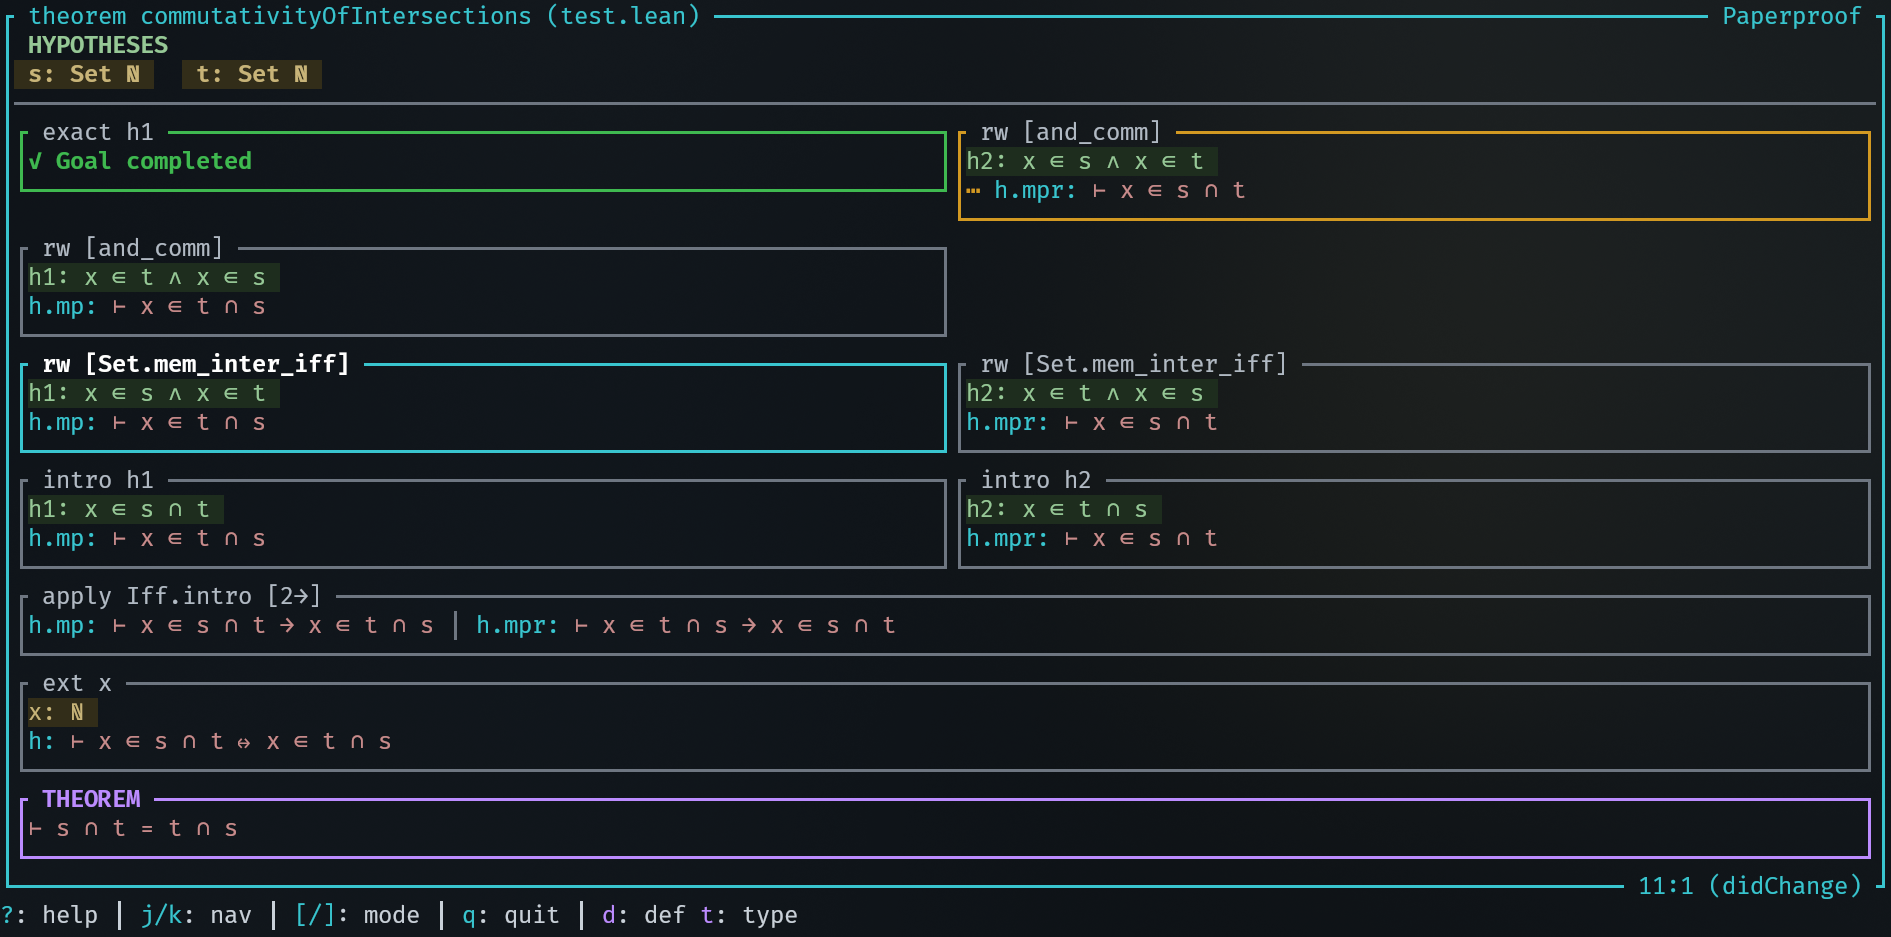
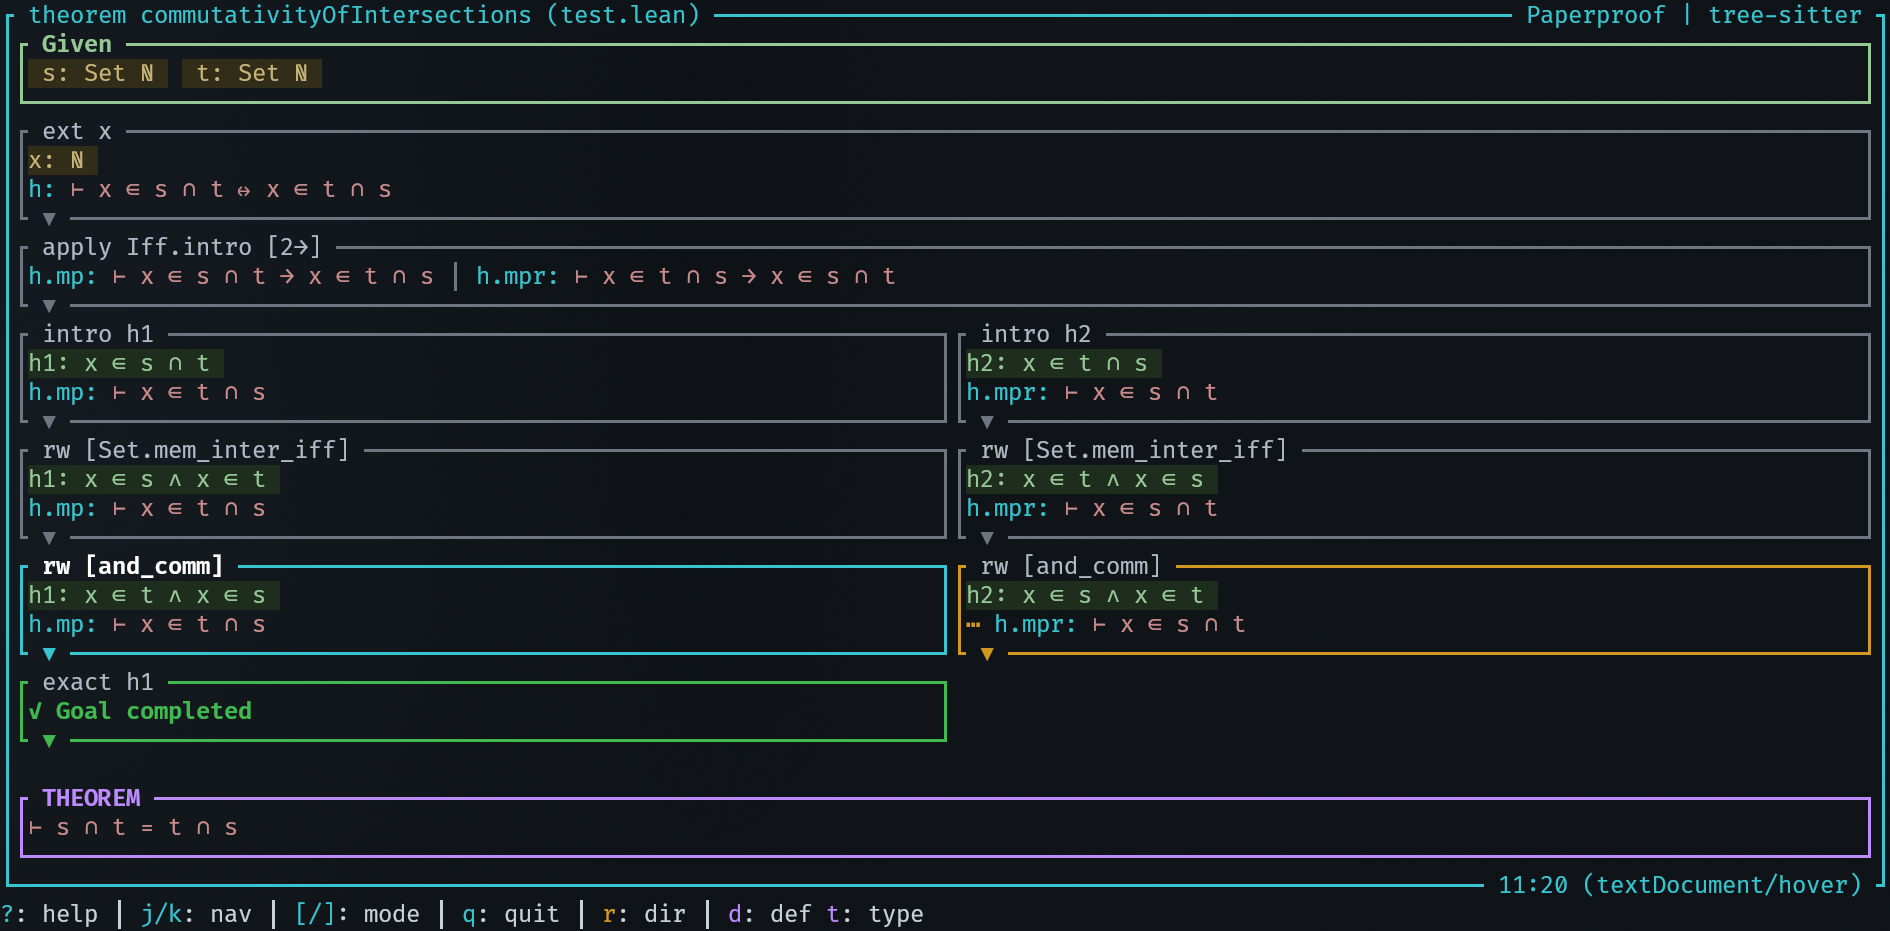
feat: show arrows in deduction mode in direction of proof

Changed region(s): [[0.0, 0.0, 0.9989, 0.9968]]

diff --git a/src/tui/widgets/tree_node_box.rs b/src/tui/widgets/tree_node_box.rs
@@ -154,6 +154,7 @@ pub fn render_node_box(
     node: &ProofDagNode,
     selection: Option<Selection>,
     click_regions: &mut Vec<ClickRegion>,
+    top_down: bool,
 ) {
     let border_color = node_border_color(node);
     let border_style = if node.is_current {
@@ -180,10 +181,15 @@ pub fn render_node_box(
     };
     let title_style = Style::new().fg(title_fg).add_modifier(title_mod);
 
+    // Use arrows on borders to indicate deduction direction
+    let arrow = if top_down { "▼" } else { "▲" };
+    let arrow_title = Span::styled(format!(" {arrow} "), border_style);
+
     let block = Block::default()
         .borders(Borders::ALL)
         .border_style(border_style)
-        .title(Span::styled(title, title_style));
+        .title(Span::styled(title, title_style))
+        .title_bottom(arrow_title);
 
     let inner = block.inner(area);
     frame.render_widget(block, area);
@@ -192,22 +198,33 @@ pub fn render_node_box(
         return;
     }
 
-    let mut lines: Vec<Line> = Vec::new();
     let has_hyps = !node.new_hypotheses.is_empty();
+    let hyps_line = render_new_hyps_line(node, selection);
+    let goals_line = render_goals_line(node, selection);
 
-    if let Some(line) = render_new_hyps_line(node, selection) {
-        lines.push(line);
+    // Order lines based on direction: top-down = hyps then goals, bottom-up = goals
+    // then hyps
+    let lines: Vec<Line> = if top_down {
+        let mut v: Vec<Line> = hyps_line.into_iter().collect();
+        v.push(goals_line);
+        v
+    } else {
+        let mut v = vec![goals_line];
+        v.extend(hyps_line);
+        v
+    };
+
+    // Track click regions with Y positions based on direction
+    let (hyps_y, goals_y) = if top_down {
+        (inner.y, if has_hyps { inner.y + 1 } else { inner.y })
+    } else {
+        (if has_hyps { inner.y + 1 } else { inner.y }, inner.y)
+    };
+
+    if has_hyps && hyps_y < inner.y + inner.height {
+        track_hyp_click_regions(click_regions, node, inner, hyps_y);
     }
 
-    lines.push(render_goals_line(node, selection));
-
-    // Track click regions for hypotheses (first line if present)
-    if has_hyps && inner.height >= 1 {
-        track_hyp_click_regions(click_regions, node, inner);
-    }
-
-    // Track click regions for goals (second line if hyps present, first otherwise)
-    let goals_y = if has_hyps { inner.y + 1 } else { inner.y };
     if goals_y < inner.y + inner.height {
         track_goal_click_regions(click_regions, node, inner, goals_y);
     }
@@ -215,14 +232,18 @@ pub fn render_node_box(
     frame.render_widget(Paragraph::new(lines).wrap(Wrap { trim: true }), inner);
 }
 
-/// Track click regions for new hypotheses on the first line based on actual
-/// text widths.
-fn track_hyp_click_regions(click_regions: &mut Vec<ClickRegion>, node: &ProofDagNode, inner: Rect) {
+/// Track click regions for new hypotheses based on actual text widths.
+fn track_hyp_click_regions(
+    click_regions: &mut Vec<ClickRegion>,
+    node: &ProofDagNode,
+    inner: Rect,
+    hyps_y: u16,
+) {
     if node.new_hypotheses.is_empty() {
         return;
     }
 
-    let mut tracker = ClickRegionTracker::new(inner.x, inner.y, inner.width);
+    let mut tracker = ClickRegionTracker::new(inner.x, hyps_y, inner.width);
 
     for (i, &hyp_idx) in node.new_hypotheses.iter().take(3).enumerate() {
         if i > 0 {

diff --git a/src/tui/widgets/tree_view.rs b/src/tui/widgets/tree_view.rs
@@ -113,7 +113,14 @@ fn render_node_recursive(frame: &mut Frame, area: Rect, ctx: &mut RenderContext,
     let (children_area, step_area) =
         layout_node_areas(area, box_height, node.children.is_empty(), ctx.top_down);
 
-    render_node_box(frame, step_area, node, ctx.selection, ctx.click_regions);
+    render_node_box(
+        frame,
+        step_area,
+        node,
+        ctx.selection,
+        ctx.click_regions,
+        ctx.top_down,
+    );
 
     if let Some(children_area) = children_area {
         render_children(frame, children_area, ctx, &node.children);
